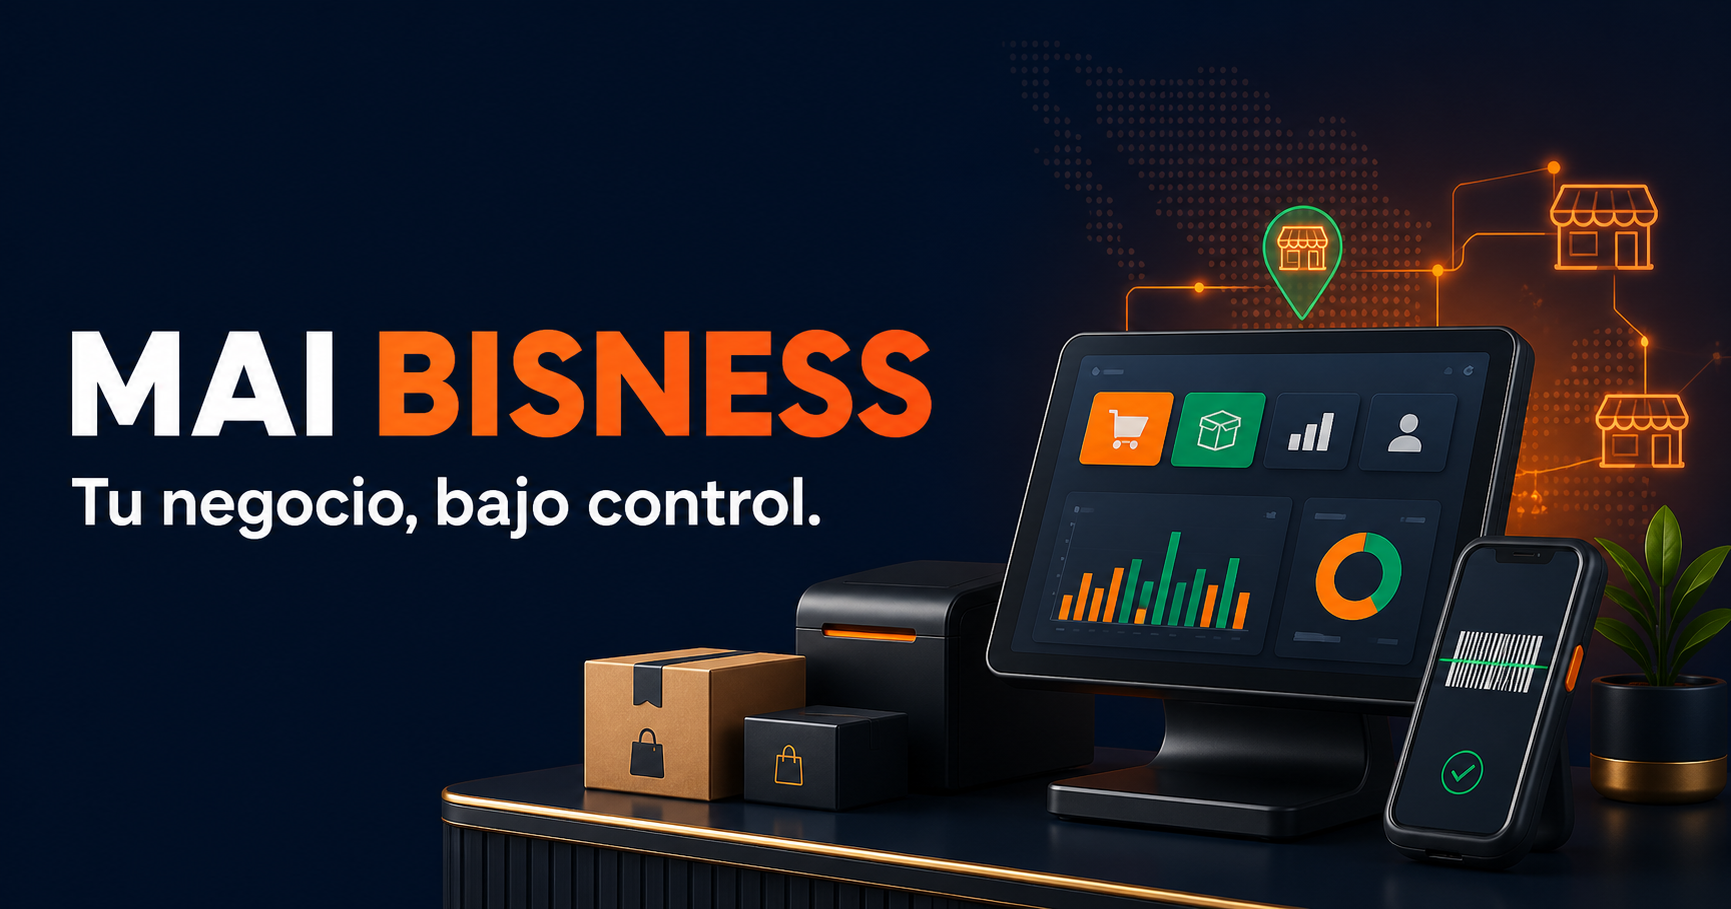
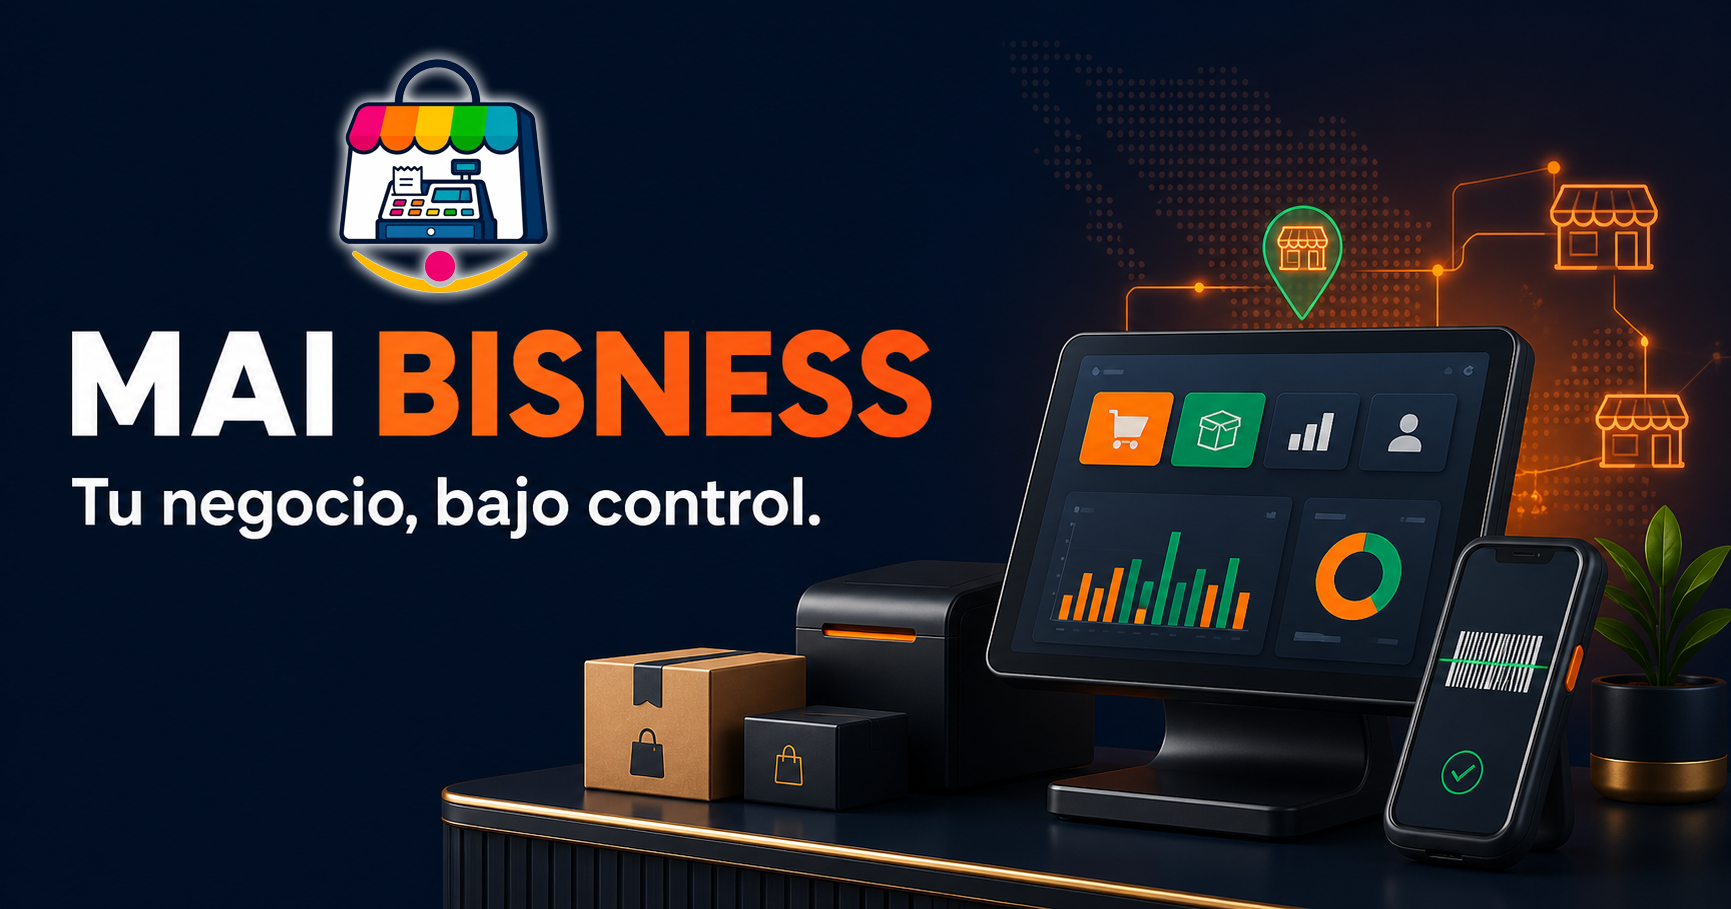
Publica version final 1.0.0

Changed region(s): [[0.1872, 0.0616, 0.3432, 0.3388]]

diff --git a/styles.css b/styles.css
@@ -1,4 +1,4 @@
-:root{--navy:#0f172a;--navy-2:#111c33;--slate:#1e293b;--slate-2:#27354b;--orange:#ff6b35;--green:#04a777;--gold:#ffd166;--blue:#60a5fa;--white:#f8fafc;--muted:#aab5c8;--line:rgba(255,255,255,.1);--shadow:0 24px 70px rgba(0,0,0,.28);font-family:Inter,ui-sans-serif,system-ui,-apple-system,"Segoe UI",sans-serif;color-scheme:dark;scroll-behavior:smooth}*{box-sizing:border-box}html{overflow-x:hidden}body{margin:0;background:var(--navy);color:var(--white);line-height:1.6;overflow-x:hidden}img{max-width:100%;height:auto}a{color:inherit}.wrap{width:min(1120px,calc(100% - 40px));margin-inline:auto}.skip-link{position:fixed;left:12px;top:-60px;z-index:100;padding:10px 16px;border-radius:9px;background:#fff;color:#111827;font-weight:800}.skip-link:focus{top:12px}.site-header{position:sticky;top:0;z-index:40;border-bottom:1px solid var(--line);background:rgba(15,23,42,.9);backdrop-filter:blur(16px)}.nav{height:78px;display:flex;align-items:center;gap:28px}.brand{display:inline-flex;align-items:center;gap:12px;text-decoration:none;font-size:1.2rem;font-weight:900;letter-spacing:.05em;white-space:nowrap}.brand img,.footer-brand img{border-radius:12px;box-shadow:0 8px 30px rgba(255,107,53,.25)}.brand strong{color:var(--orange)}.nav-links{display:flex;gap:26px;margin-left:auto}.nav-links a,.footer nav a{color:#cbd5e1;text-decoration:none;font-weight:700}.nav-links a:hover,.footer nav a:hover{color:#fff}.button{display:inline-flex;align-items:center;justify-content:center;min-height:50px;padding:12px 20px;border-radius:13px;border:1px solid transparent;text-decoration:none;text-align:center;font-weight:850;line-height:1.2;transition:transform .2s,background .2s,border-color .2s}.button:hover{transform:translateY(-2px)}.button:focus-visible,a:focus-visible{outline:3px solid var(--gold);outline-offset:3px}.button-small{min-height:42px;padding:9px 16px}.button-primary{background:var(--orange);color:#fff;box-shadow:0 14px 34px rgba(255,107,53,.24)}.button-primary:hover{background:#ff7a49}.button-green{background:var(--green);color:#061c18}.button-secondary,.button-ghost{border-color:var(--line);background:rgba(255,255,255,.055);color:#fff}.button-secondary:hover,.button-ghost:hover{background:rgba(255,255,255,.1)}.button-disabled{background:#334155;color:#aeb8c7;cursor:not-allowed}.button-disabled:hover{transform:none}.full{width:100%}.hero{position:relative;isolation:isolate;padding:100px 0 90px;overflow:hidden;background:radial-gradient(circle at 75% 20%,rgba(255,107,53,.12),transparent 34%),linear-gradient(180deg,#111a2e 0%,var(--navy) 100%)}.hero-glow{position:absolute;z-index:-1;width:480px;height:480px;right:-170px;top:-210px;border-radius:50%;background:rgba(255,107,53,.14);filter:blur(80px)}.hero-grid{display:grid;grid-template-columns:minmax(0,1.05fr) minmax(360px,.85fr);align-items:center;gap:72px}.eyebrow,.section-kicker,.platform,.plan-label{margin:0 0 15px;color:var(--gold);font-size:.77rem;font-weight:900;letter-spacing:.14em;text-transform:uppercase}.hero h1{max-width:760px;margin:0;font-size:clamp(3.5rem,7vw,6.2rem);line-height:.93;letter-spacing:-.055em}.hero h1 span{color:var(--orange)}.hero-lead{max-width:680px;margin:28px 0;color:#c6d0df;font-size:clamp(1.08rem,2vw,1.3rem)}.actions{display:flex;flex-wrap:wrap;gap:12px}.microcopy{margin-top:18px;color:#8997ac;font-size:.86rem}.product-preview{min-width:0;padding:24px;border:1px solid rgba(255,255,255,.13);border-radius:28px;background:linear-gradient(145deg,rgba(39,53,75,.92),rgba(19,31,52,.96));box-shadow:var(--shadow);transform:rotate(1.5deg)}.preview-top,.stock-line{display:flex;align-items:center;justify-content:space-between;gap:12px;color:#dbe5f3;font-size:.82rem;font-weight:800}.live-dot{color:#6ee7b7}.live-dot:before{content:"";display:inline-block;width:7px;height:7px;margin-right:7px;border-radius:50%;background:#34d399;box-shadow:0 0 0 5px rgba(52,211,153,.12)}.metric{min-width:0;padding:18px;margin-top:16px;border:1px solid rgba(255,255,255,.08);border-radius:18px;background:rgba(8,15,30,.35)}.metric span,.metric small{display:block;color:#9ba9bc}.metric strong{display:block;margin:3px 0;font-size:1.65rem}.featured strong{font-size:2.55rem;color:#fff}.metric-row{display:grid;grid-template-columns:repeat(2,minmax(0,1fr));gap:14px}.stock-line{margin-top:18px;padding:14px;border-radius:13px;background:rgba(4,167,119,.11);color:#9de7d0}.trust-strip{border-block:1px solid var(--line);background:#101b30}.trust-grid{display:grid;grid-template-columns:repeat(3,minmax(0,1fr));gap:0}.trust-grid div{min-width:0;padding:25px 28px;border-right:1px solid var(--line)}.trust-grid div:first-child{padding-left:0}.trust-grid div:last-child{border-right:0}.trust-grid strong,.trust-grid span{display:block}.trust-grid span{margin-top:3px;color:var(--muted);font-size:.88rem}.section{padding:100px 0}.section-alt{background:#121d32;border-block:1px solid rgba(255,255,255,.06)}.section h2,.cta h2{max-width:780px;margin:0;font-size:clamp(2.15rem,5vw,4rem);line-height:1.03;letter-spacing:-.04em}.section-intro{max-width:760px;margin:22px 0 50px;color:var(--muted);font-size:1.1rem}.feature-grid{display:grid;grid-template-columns:repeat(3,minmax(0,1fr));gap:18px}.feature-card,.price-card,.download-card{min-width:0;border:1px solid var(--line);border-radius:22px;background:linear-gradient(145deg,rgba(39,53,75,.72),rgba(24,36,56,.78));box-shadow:0 14px 40px rgba(0,0,0,.12)}.feature-card{padding:28px}.feature-icon{display:grid;width:46px;height:46px;place-items:center;margin-bottom:24px;border-radius:13px;background:rgba(255,107,53,.13);color:var(--orange);font-size:1.55rem;font-weight:900}.feature-card h3,.download-card h3{margin:0 0 9px;font-size:1.25rem}.feature-card p,.download-card p,.price-card>p{margin:0;color:var(--muted)}.pricing-grid{display:grid;grid-template-columns:repeat(3,minmax(0,1fr));gap:18px;align-items:stretch}.price-card{position:relative;padding:30px}.price-card.recommended{border-color:rgba(255,209,102,.55);box-shadow:0 22px 60px rgba(255,107,53,.1)}.price-card h3{margin:0 0 8px;font-size:2.5rem}.price-card h3 small{color:var(--muted);font-size:.88rem;font-weight:700}.price-card ul{display:grid;gap:11px;margin:25px 0;padding:0;list-style:none}.price-card li:before{content:"✓";margin-right:10px;color:#5ee0b7;font-weight:900}.badge,.save{display:inline-block!important;margin-bottom:12px!important;padding:5px 10px;border-radius:999px!important;background:rgba(255,209,102,.12);color:var(--gold)!important;font-size:.73rem;font-weight:900}.billing-note,.install-help{margin:30px 0 0;padding:20px 22px;border:1px solid rgba(96,165,250,.18);border-radius:15px;background:rgba(96,165,250,.07);color:#c1cce0}.billing-note a{color:#93c5fd}.download-grid{display:grid;grid-template-columns:repeat(3,minmax(0,1fr));gap:18px;margin-top:42px}.download-card{display:flex;min-height:420px;padding:28px;flex-direction:column;justify-content:space-between;gap:24px}.download-card.ready{border-color:rgba(4,167,119,.4)}.download-card.pending{border-style:dashed}.download-card dl{display:grid;gap:10px;margin:24px 0}.download-card dl div{display:flex;justify-content:space-between;gap:14px;padding-bottom:9px;border-bottom:1px solid var(--line)}.download-card dt{color:var(--muted)}.download-card dd{margin:0;text-align:right;font-weight:800}.checksum{display:block;margin-top:-13px;color:#9caac0;text-align:center;font-size:.76rem;overflow-wrap:anywhere}.security-grid{display:grid;grid-template-columns:minmax(0,1.1fr) minmax(320px,.9fr);gap:68px;align-items:center}.security-list{display:grid;gap:12px;margin:0;padding:0;list-style:none}.security-list li{padding:20px;border:1px solid var(--line);border-radius:16px;background:rgba(255,255,255,.04)}.security-list strong,.security-list span{display:block}.security-list span{margin-top:4px;color:var(--muted);font-size:.9rem}.cta{padding:80px 0}.cta-box{display:flex;align-items:center;justify-content:space-between;gap:34px;padding:48px;border:1px solid rgba(255,107,53,.3);border-radius:28px;background:radial-gradient(circle at 90% 20%,rgba(255,107,53,.2),transparent 34%),#17233a}.cta-box p:last-child{margin-bottom:0;color:var(--muted)}.footer{padding:38px 0;border-top:1px solid var(--line);background:#0c1425;color:#9aa7ba}.footer-grid{display:grid;grid-template-columns:1.2fr auto auto;gap:28px;align-items:center}.footer-brand{display:flex;align-items:center;gap:12px}.footer-brand strong,.footer-brand span{display:block}.footer-brand strong{color:#fff}.footer nav{display:flex;gap:18px}.footer p{margin:0;font-size:.86rem;text-align:right}
+:root{--navy:#0f172a;--navy-2:#111c33;--slate:#1e293b;--slate-2:#27354b;--orange:#ff6b35;--green:#04a777;--gold:#ffd166;--blue:#60a5fa;--white:#f8fafc;--muted:#aab5c8;--line:rgba(255,255,255,.1);--shadow:0 24px 70px rgba(0,0,0,.28);font-family:Inter,ui-sans-serif,system-ui,-apple-system,"Segoe UI",sans-serif;color-scheme:dark;scroll-behavior:smooth}*{box-sizing:border-box}html{overflow-x:hidden}body{margin:0;background:var(--navy);color:var(--white);line-height:1.6;overflow-x:hidden}img{max-width:100%;height:auto}a{color:inherit}.wrap{width:min(1120px,calc(100% - 40px));margin-inline:auto}.skip-link{position:fixed;left:12px;top:-60px;z-index:100;padding:10px 16px;border-radius:9px;background:#fff;color:#111827;font-weight:800}.skip-link:focus{top:12px}.site-header{position:sticky;top:0;z-index:40;border-bottom:1px solid var(--line);background:rgba(15,23,42,.9);backdrop-filter:blur(16px)}.nav{height:78px;display:flex;align-items:center;gap:28px}.brand{display:inline-flex;align-items:center;gap:12px;text-decoration:none;font-size:1.2rem;font-weight:900;letter-spacing:.05em;white-space:nowrap}.brand img,.footer-brand img{border-radius:12px;box-shadow:0 8px 30px rgba(255,107,53,.25)}.brand img{width:48px;height:48px;object-fit:contain}.footer-brand img{width:42px;height:42px;object-fit:contain}.brand strong{color:var(--orange)}.nav-links{display:flex;gap:26px;margin-left:auto}.nav-links a,.footer nav a{color:#cbd5e1;text-decoration:none;font-weight:700}.nav-links a:hover,.footer nav a:hover{color:#fff}.button{display:inline-flex;align-items:center;justify-content:center;min-height:50px;padding:12px 20px;border-radius:13px;border:1px solid transparent;text-decoration:none;text-align:center;font-weight:850;line-height:1.2;transition:transform .2s,background .2s,border-color .2s}.button:hover{transform:translateY(-2px)}.button:focus-visible,a:focus-visible{outline:3px solid var(--gold);outline-offset:3px}.button-small{min-height:42px;padding:9px 16px}.button-primary{background:var(--orange);color:#fff;box-shadow:0 14px 34px rgba(255,107,53,.24)}.button-primary:hover{background:#ff7a49}.button-green{background:var(--green);color:#061c18}.button-secondary,.button-ghost{border-color:var(--line);background:rgba(255,255,255,.055);color:#fff}.button-secondary:hover,.button-ghost:hover{background:rgba(255,255,255,.1)}.button-disabled{background:#334155;color:#aeb8c7;cursor:not-allowed}.button-disabled:hover{transform:none}.full{width:100%}.hero{position:relative;isolation:isolate;padding:100px 0 90px;overflow:hidden;background:radial-gradient(circle at 75% 20%,rgba(255,107,53,.12),transparent 34%),linear-gradient(180deg,#111a2e 0%,var(--navy) 100%)}.hero-glow{position:absolute;z-index:-1;width:480px;height:480px;right:-170px;top:-210px;border-radius:50%;background:rgba(255,107,53,.14);filter:blur(80px)}.hero-grid{display:grid;grid-template-columns:minmax(0,1.05fr) minmax(360px,.85fr);align-items:center;gap:72px}.eyebrow,.section-kicker,.platform,.plan-label{margin:0 0 15px;color:var(--gold);font-size:.77rem;font-weight:900;letter-spacing:.14em;text-transform:uppercase}.hero h1{max-width:760px;margin:0;font-size:clamp(3.5rem,7vw,6.2rem);line-height:.93;letter-spacing:-.055em}.hero h1 span{color:var(--orange)}.hero-lead{max-width:680px;margin:28px 0;color:#c6d0df;font-size:clamp(1.08rem,2vw,1.3rem)}.actions{display:flex;flex-wrap:wrap;gap:12px}.microcopy{margin-top:18px;color:#8997ac;font-size:.86rem}.product-preview{min-width:0;padding:24px;border:1px solid rgba(255,255,255,.13);border-radius:28px;background:linear-gradient(145deg,rgba(39,53,75,.92),rgba(19,31,52,.96));box-shadow:var(--shadow);transform:rotate(1.5deg)}.preview-top,.stock-line{display:flex;align-items:center;justify-content:space-between;gap:12px;color:#dbe5f3;font-size:.82rem;font-weight:800}.live-dot{color:#6ee7b7}.live-dot:before{content:"";display:inline-block;width:7px;height:7px;margin-right:7px;border-radius:50%;background:#34d399;box-shadow:0 0 0 5px rgba(52,211,153,.12)}.metric{min-width:0;padding:18px;margin-top:16px;border:1px solid rgba(255,255,255,.08);border-radius:18px;background:rgba(8,15,30,.35)}.metric span,.metric small{display:block;color:#9ba9bc}.metric strong{display:block;margin:3px 0;font-size:1.65rem}.featured strong{font-size:2.55rem;color:#fff}.metric-row{display:grid;grid-template-columns:repeat(2,minmax(0,1fr));gap:14px}.stock-line{margin-top:18px;padding:14px;border-radius:13px;background:rgba(4,167,119,.11);color:#9de7d0}.trust-strip{border-block:1px solid var(--line);background:#101b30}.trust-grid{display:grid;grid-template-columns:repeat(3,minmax(0,1fr));gap:0}.trust-grid div{min-width:0;padding:25px 28px;border-right:1px solid var(--line)}.trust-grid div:first-child{padding-left:0}.trust-grid div:last-child{border-right:0}.trust-grid strong,.trust-grid span{display:block}.trust-grid span{margin-top:3px;color:var(--muted);font-size:.88rem}.section{padding:100px 0}.section-alt{background:#121d32;border-block:1px solid rgba(255,255,255,.06)}.section h2,.cta h2{max-width:780px;margin:0;font-size:clamp(2.15rem,5vw,4rem);line-height:1.03;letter-spacing:-.04em}.section-intro{max-width:760px;margin:22px 0 50px;color:var(--muted);font-size:1.1rem}.feature-grid{display:grid;grid-template-columns:repeat(3,minmax(0,1fr));gap:18px}.feature-card,.price-card,.download-card{min-width:0;border:1px solid var(--line);border-radius:22px;background:linear-gradient(145deg,rgba(39,53,75,.72),rgba(24,36,56,.78));box-shadow:0 14px 40px rgba(0,0,0,.12)}.feature-card{padding:28px}.feature-icon{display:grid;width:46px;height:46px;place-items:center;margin-bottom:24px;border-radius:13px;background:rgba(255,107,53,.13);color:var(--orange);font-size:1.55rem;font-weight:900}.feature-card h3,.download-card h3{margin:0 0 9px;font-size:1.25rem}.feature-card p,.download-card p,.price-card>p{margin:0;color:var(--muted)}.pricing-grid{display:grid;grid-template-columns:repeat(3,minmax(0,1fr));gap:18px;align-items:stretch}.price-card{position:relative;padding:30px}.price-card.recommended{border-color:rgba(255,209,102,.55);box-shadow:0 22px 60px rgba(255,107,53,.1)}.price-card h3{margin:0 0 8px;font-size:2.5rem}.price-card h3 small{color:var(--muted);font-size:.88rem;font-weight:700}.price-card ul{display:grid;gap:11px;margin:25px 0;padding:0;list-style:none}.price-card li:before{content:"✓";margin-right:10px;color:#5ee0b7;font-weight:900}.badge,.save{display:inline-block!important;margin-bottom:12px!important;padding:5px 10px;border-radius:999px!important;background:rgba(255,209,102,.12);color:var(--gold)!important;font-size:.73rem;font-weight:900}.billing-note,.install-help{margin:30px 0 0;padding:20px 22px;border:1px solid rgba(96,165,250,.18);border-radius:15px;background:rgba(96,165,250,.07);color:#c1cce0}.billing-note a{color:#93c5fd}.download-grid{display:grid;grid-template-columns:repeat(3,minmax(0,1fr));gap:18px;margin-top:42px}.download-card{display:flex;min-height:420px;padding:28px;flex-direction:column;justify-content:space-between;gap:24px}.download-card.ready{border-color:rgba(4,167,119,.4)}.download-card.pending{border-style:dashed}.download-card dl{display:grid;gap:10px;margin:24px 0}.download-card dl div{display:flex;justify-content:space-between;gap:14px;padding-bottom:9px;border-bottom:1px solid var(--line)}.download-card dt{color:var(--muted)}.download-card dd{margin:0;text-align:right;font-weight:800}.checksum{display:block;margin-top:-13px;color:#9caac0;text-align:center;font-size:.76rem;overflow-wrap:anywhere}.security-grid{display:grid;grid-template-columns:minmax(0,1.1fr) minmax(320px,.9fr);gap:68px;align-items:center}.security-list{display:grid;gap:12px;margin:0;padding:0;list-style:none}.security-list li{padding:20px;border:1px solid var(--line);border-radius:16px;background:rgba(255,255,255,.04)}.security-list strong,.security-list span{display:block}.security-list span{margin-top:4px;color:var(--muted);font-size:.9rem}.cta{padding:80px 0}.cta-box{display:flex;align-items:center;justify-content:space-between;gap:34px;padding:48px;border:1px solid rgba(255,107,53,.3);border-radius:28px;background:radial-gradient(circle at 90% 20%,rgba(255,107,53,.2),transparent 34%),#17233a}.cta-box p:last-child{margin-bottom:0;color:var(--muted)}.footer{padding:38px 0;border-top:1px solid var(--line);background:#0c1425;color:#9aa7ba}.footer-grid{display:grid;grid-template-columns:1.2fr auto auto;gap:28px;align-items:center}.footer-brand{display:flex;align-items:center;gap:12px}.footer-brand strong,.footer-brand span{display:block}.footer-brand strong{color:#fff}.footer nav{display:flex;gap:18px}.footer p{margin:0;font-size:.86rem;text-align:right}
 /* Documentos legales */.legal-page{background:#f5f7fb;color:#172033;color-scheme:light}.legal-page>header{padding:34px 20px;color:#fff;background:linear-gradient(135deg,#ff6b35,#df3d63)}.legal-page>header div,.legal-page>main,.legal-page>footer{width:min(880px,calc(100% - 32px));margin-inline:auto}.legal-page>header h1{margin:0;font-size:clamp(2rem,6vw,3rem)}.legal-page>header p{margin:0;opacity:.9}.legal-page nav{display:flex;flex-wrap:wrap;gap:10px;margin-top:18px}.legal-page nav a{padding:8px 13px;border:1px solid rgba(255,255,255,.7);border-radius:999px;color:#fff;text-decoration:none}.legal-page>main{margin-block:28px;padding:30px;border-radius:18px;background:#fff;box-shadow:0 14px 45px rgba(23,32,51,.08)}.legal-page h2{margin-top:30px;color:#b9384f;font-size:1.2rem}.legal-page a{color:#a92542}.legal-page .updated{color:#5c6578;font-weight:700}.legal-page>footer{padding:0 20px 34px;text-align:center;color:#626b7d}
 @media(max-width:900px){.hero{padding:72px 0}.hero-grid,.security-grid{grid-template-columns:1fr;gap:48px}.product-preview{width:min(620px,100%);transform:none}.feature-grid,.pricing-grid{grid-template-columns:repeat(2,minmax(0,1fr))}.download-grid{grid-template-columns:1fr 1fr}.footer-grid{grid-template-columns:1fr;text-align:center}.footer-brand,.footer nav{justify-content:center}.footer p{text-align:center}.price-card.recommended{order:-1}.nav-links{display:none}}
 @media(max-width:620px){.wrap{width:min(100% - 28px,1120px)}.nav{height:70px;gap:10px}.brand{font-size:1rem}.brand img{width:40px;height:40px}.button-small{padding:8px 12px;font-size:.82rem}.hero{padding:58px 0 62px}.hero h1{font-size:clamp(3rem,16vw,4.35rem)}.hero-lead{font-size:1.02rem}.actions{display:grid}.button{width:100%}.microcopy{font-size:.78rem}.product-preview{padding:17px;border-radius:20px}.metric-row{gap:8px}.metric{padding:14px}.featured strong{font-size:2rem}.trust-grid,.feature-grid,.pricing-grid,.download-grid{grid-template-columns:1fr}.trust-grid div,.trust-grid div:first-child{padding:18px 0;border-right:0;border-bottom:1px solid var(--line)}.trust-grid div:last-child{border-bottom:0}.section{padding:72px 0}.section-intro{margin-bottom:36px}.price-card.recommended{order:initial}.download-card{min-height:0}.cta{padding:58px 0}.cta-box{display:grid;padding:28px}.footer nav{flex-wrap:wrap}.legal-page>main{padding:22px}.legal-page>header div,.legal-page>main,.legal-page>footer{width:min(100% - 24px,880px)}}

diff --git a/index.html b/index.html
@@ -54,7 +54,7 @@
       <article class="price-card"><p class="save">Ahorra $160 al año</p><p class="plan-label">PRO ANUAL</p><h3>$800 <small>MXN/año</small></h3><p>Las mismas funciones PRO con pago anual.</p><ul><li>12 meses de acceso PRO</li><li>Renovación automática anual</li><li>Cancelación desde la app</li><li>Conservas PRO hasta terminar lo pagado</li></ul></article>
     </div><p class="billing-note">La prueba Premium dura 5 días. Al contratar, Mercado Pago muestra el importe antes de autorizar. Puedes cancelar la renovación automática desde la app; no habrá cobros futuros y conservarás PRO hasta finalizar el periodo pagado. Consulta los <a href="/terminos.html">términos completos</a>.</p></div></section>
     <section class="section" id="descargas"><div class="wrap"><p class="section-kicker">Centro de descargas</p><h2>Instala Mai Bisness.</h2><div class="download-grid">
-      <article class="download-card ready"><div><span class="platform">ANDROID</span><h3>Mai Bisness para celular</h3><p>APK oficial firmado. Android puede pedir autorización para instalar aplicaciones descargadas desde el navegador.</p><dl><div><dt>Versión</dt><dd>1.0.0</dd></div><div><dt>Actualización</dt><dd>7 ago 2026</dd></div></dl></div><a class="button button-green full" href="/descargas/MaiBisness.apk" download>Descargar APK</a><a class="checksum" href="/descargas/MaiBisness.apk.sha256">Ver huella SHA-256</a></article>
+      <article class="download-card ready"><div><span class="platform">ANDROID</span><h3>Mai Bisness para celular</h3><p>APK oficial firmado. Android puede pedir autorización para instalar aplicaciones descargadas desde el navegador.</p><dl><div><dt>Versión</dt><dd>1.0.0</dd></div><div><dt>Actualización</dt><dd>12 ago 2026</dd></div></dl></div><a class="button button-green full" href="/descargas/MaiBisness.apk" download>Descargar APK</a><a class="checksum" href="/descargas/MaiBisness.apk.sha256">Ver huella SHA-256</a></article>
       <article class="download-card ready">
         <div>
           <span class="platform">WINDOWS</span>
@@ -62,7 +62,7 @@
           <p>Instalador oficial para Windows. El sistema puede mostrar una advertencia de editor desconocido mientras obtenemos una firma de código comercial.</p>
           <dl>
             <div><dt>Versión</dt><dd>1.0.0</dd></div>
-            <div><dt>Actualización</dt><dd>7 ago 2026</dd></div>
+            <div><dt>Actualización</dt><dd>12 ago 2026</dd></div>
           </dl>
         </div>
         <a class="button button-green full" href="/descargas/MaiBisness_Setup.exe" download>Descargar para Windows</a>
